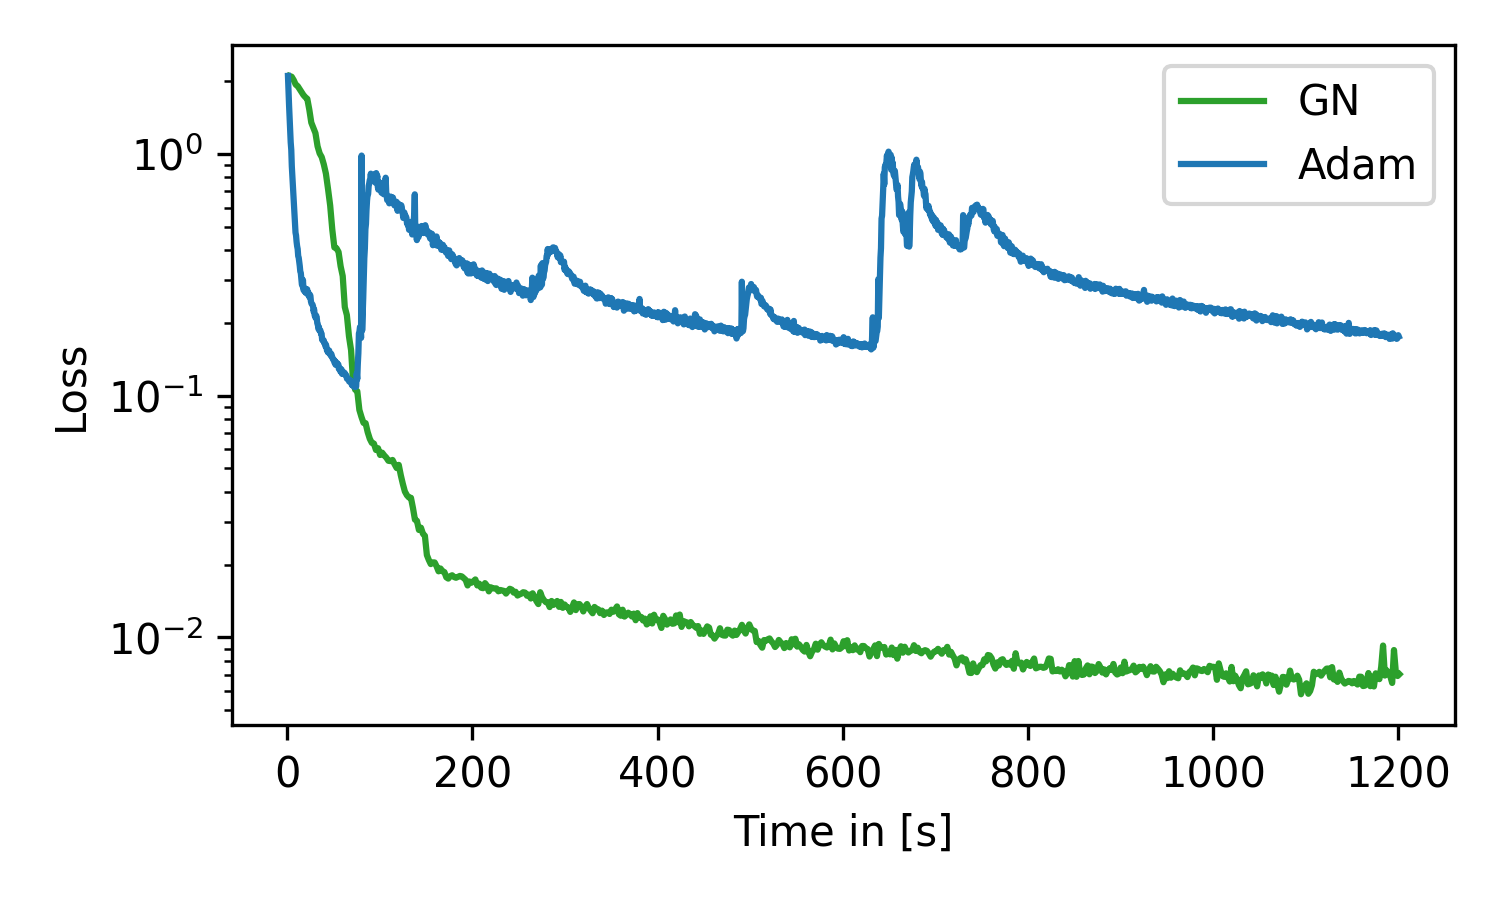
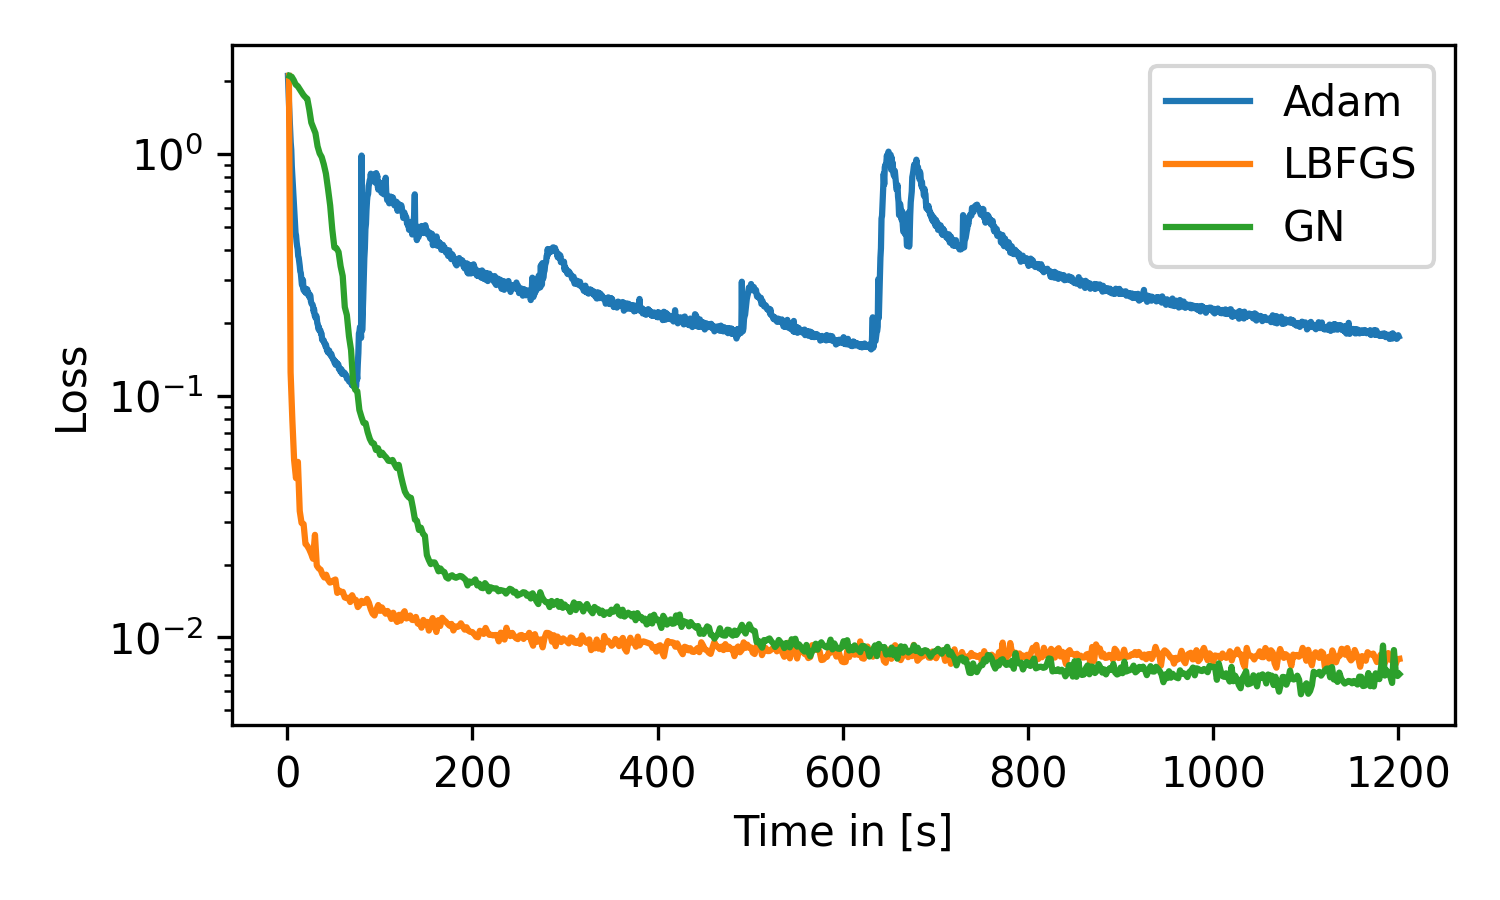
Variable initial conditions

Changed region(s): [[0.7667, 0.0622, 0.9507, 0.3111], [0.2147, 0.6222, 0.92, 0.7467], [0.184, 0.0933, 0.2147, 0.6222]]

diff --git a/experiments/tasks/catenoid.py b/experiments/tasks/catenoid.py
@@ -6,6 +6,9 @@ Goldschmidt sweep (h_over_R given): rings of radius R = cosh(1) at z = ±h with 
 cylinder of radius R or from the planes z = ±h (init). A catenoid through the rings exists only for
 h/R < H_OVER_R_MAX; the true surface is its stable branch, and otherwise the Goldschmidt solution (the two discs).
 The Chamfer distance to the discs is always reported as cd_planes, so each result can be classified.
+
+Initialization sweep: init="cylinder" or "sphere" of radius init_radius, pretrained on [-pretrain_extent, pretrain_extent]^3
+(2.0, the sampling box, for shapes that do not fit into the default [-1, 1]^3).
 """
 
 import math
@@ -44,8 +47,9 @@ class Catenoid(CurvatureTask):
     mesh_bbox = ((-2, -2, -1.25), (2, 2, 1.25))  ## for the area and the heatmap
     heatmap = dict(color_range=(0, 0.002), elevation=20, azimuth=0, gap=0.05)  ## Figure 1a
 
-    def __init__(self, c=1.0, h=1.0, init_radius=1.0, h_over_R=None, init="cylinder"):
+    def __init__(self, c=1.0, h=1.0, init_radius=1.0, h_over_R=None, init="cylinder", pretrain_extent=1.0):
         self.init = init
+        self.pretrain_extent = pretrain_extent
         if h_over_R is None:
             self.R = c * math.cosh(h / c)
         else:
@@ -91,6 +95,8 @@ class Catenoid(CurvatureTask):
     def pretrain_target(self, x):
         if self.init == "planes":
             return x[:, 2]**2 - self.h**2  ## planes z = ±h
+        if self.init == "sphere":
+            return x.square().sum(dim=1) - self.init_radius**2
         ## Cylinder of radius init_radius
         return x[:, 0]**2 + x[:, 1]**2 - self.init_radius**2
 

diff --git a/experiments/tasks/enneper.py b/experiments/tasks/enneper.py
@@ -4,6 +4,7 @@ The boundary is the image of the circle r = r_max under the parametrization
     X(u, v) = (u - u^3/3 + u v^2,  v - v^3/3 + v u^2,  u^2 - v^2).
 For r < 1 the patch is a graph over the xy-plane (the Jacobian of (u, v) -> (x, y) has determinant 1 - r^4),
 which gives the region of interest and an exact area element.
+Initialization: the xy-plane, shifted to z = offset and tilted by tilt degrees about the x-axis (initialization sweep).
 """
 
 import math
@@ -21,8 +22,8 @@ class Enneper(CurvatureTask):
     mesh_bbox = ((-0.85, -0.85, -0.85), (0.85, 0.85, 0.85))  ## for the heatmap
     heatmap = dict(color_range=(0, 0.002), elevation=15, azimuth=35, gap=0.1)  ## Figure 2a
 
-    def __init__(self, r_max=0.9):
-        self.r_max = r_max
+    def __init__(self, r_max=0.9, offset=0.0, tilt=0.0):
+        self.r_max, self.offset, self.tilt = r_max, offset, tilt
         phi = torch.linspace(-torch.pi, torch.pi, 1000, dtype=torch.float64)
         self.pts_boundary = enneper(r_max * torch.cos(phi), r_max * torch.sin(phi))
         ## True surface (64 x 128 grid in r and phi)
@@ -35,8 +36,9 @@ class Enneper(CurvatureTask):
         self.area_true = 2 * math.pi * (r_max**2/2 + r_max**4/2 + r_max**6/6)  ## int (1+r^2)^2 r dr dphi
 
     def pretrain_target(self, x):
-        ## The xy-plane
-        return x[:, 2]
+        ## The xy-plane, shifted and tilted
+        t = math.radians(self.tilt)
+        return math.cos(t) * x[:, 2] - math.sin(t) * x[:, 1] - self.offset
 
     @staticmethod
     def uv_from_xy(x, y, n_steps=20, n_iter=5):

diff --git a/experiments/tasks/jeb.py b/experiments/tasks/jeb.py
@@ -44,7 +44,7 @@ class JEB:
         "lbfgs": dict(line_search_fn="strong_wolfe"),
     }
     gn_class = GaussNewton
-    figure_opts = ["gn", "adam"]  ## as in Figures 6 and 7
+    figure_opts = ["adam", "lbfgs", "gn"]  ## left to right, as in the other figures
     table_keys = ["loss", "interface_rms", "normal_consistency", "design_region_violation", "design_region_max_depth",
                   "n_components", "strain_mean", "strain_median", "strain_p95", "eikonal_rms"]
     z = 0.05  ## latent code of the conditional WIRE
